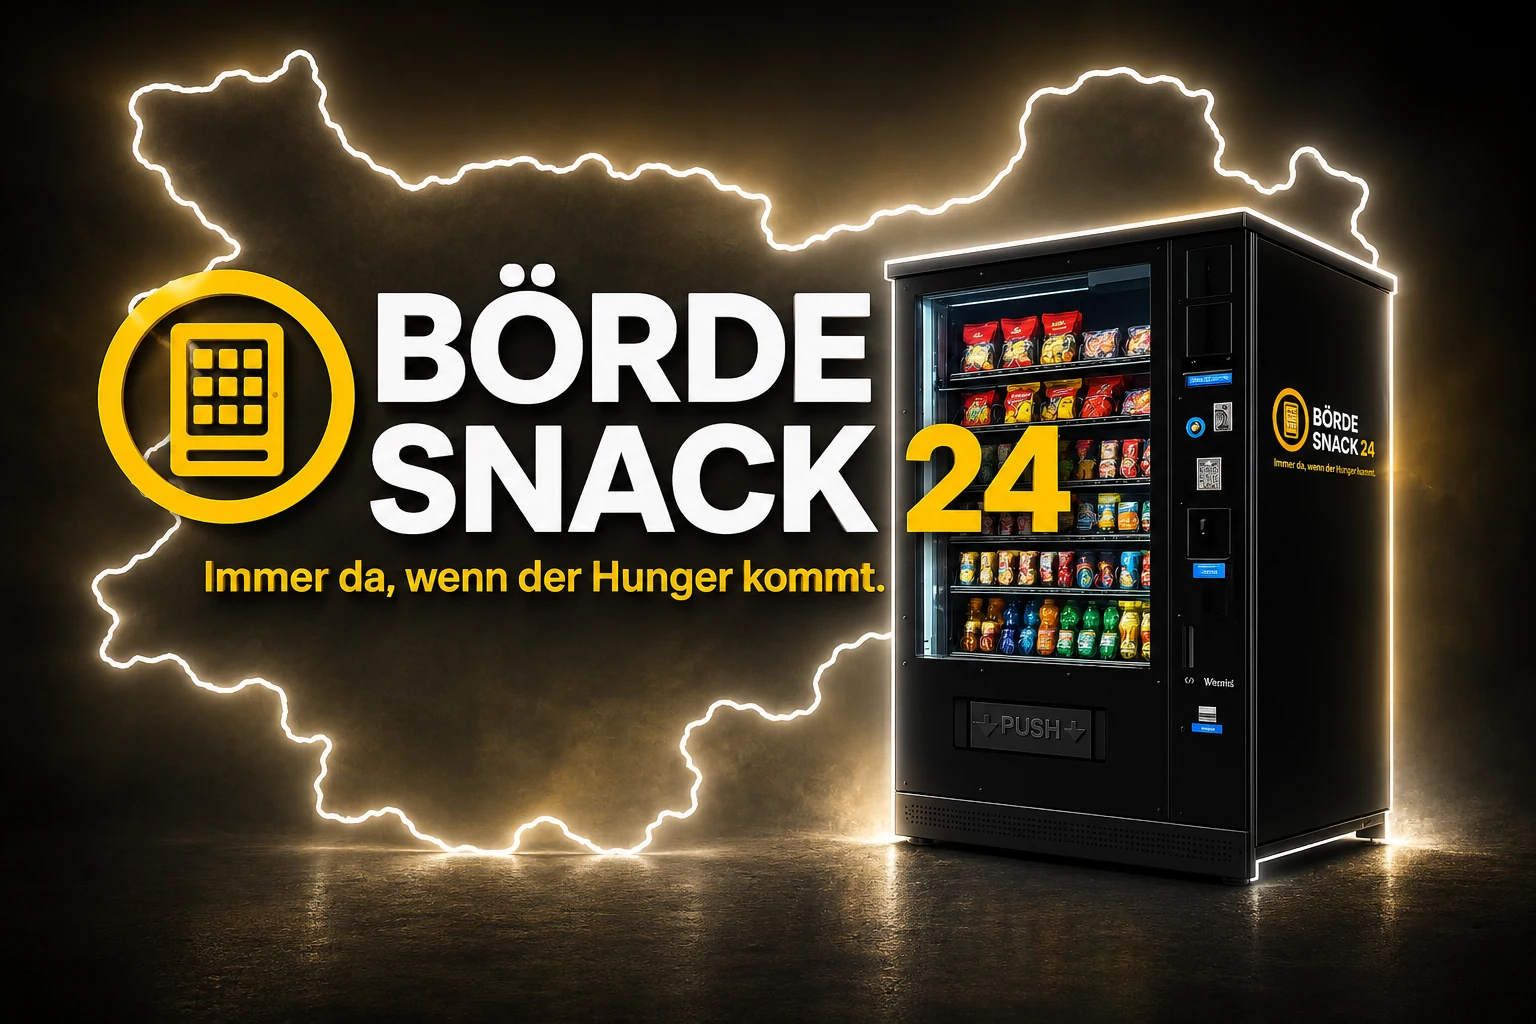
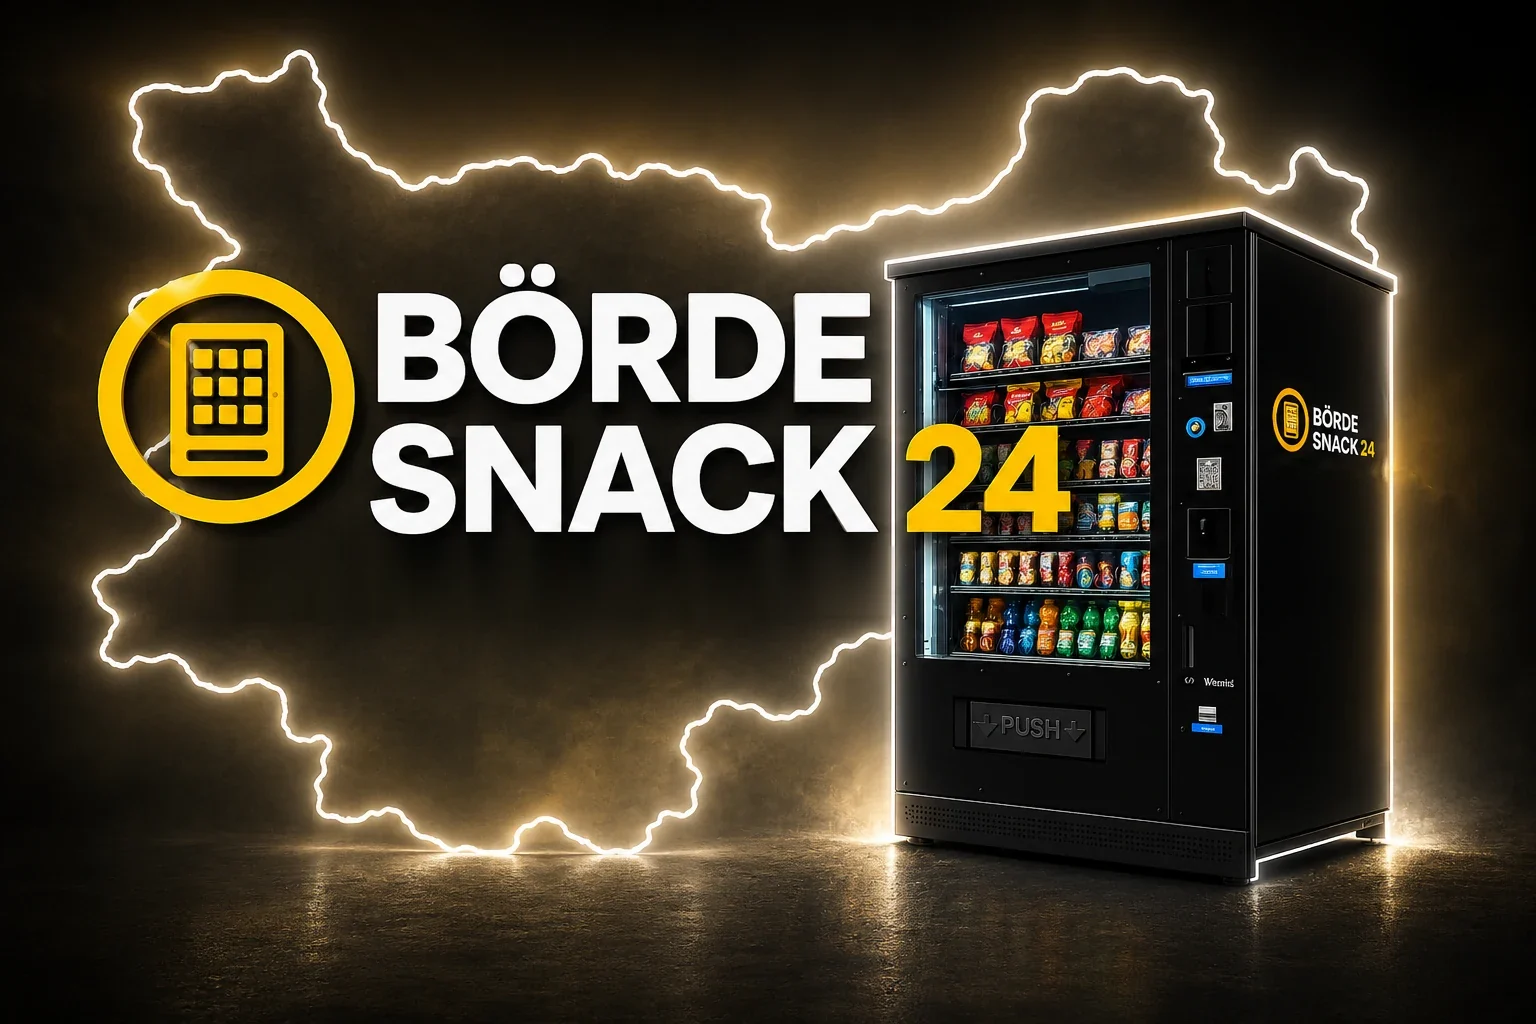
Alten Claim entfernt: Texte ersetzt, App-Bilder retuschiert
Entscheidung des Gesellschafters vom 27.09.2026.

- „Immer da, wenn der Hunger kommt." an allen fünf Fundstellen ersetzt
  durch den Claim der Landingpage „Versorgung vor Ort. Wert für den Ort.":
  Anmeldung, Kopf des internen Bereichs, Ladebildschirm, Briefvorlage
  (brief_docx.ts, wirkt nur auf künftig installierte Vorlagen), ruhender
  Store-Text.
- brand_hero_wide.webp und brand_hero.jpg: Schriftzug groß und klein
  herausretuschiert (Flächenfüllung aus dem Umfeld, kein neu erzeugtes
  Motiv). Golden hero_app_bar.png neu erzeugt und gesichtet.
- flutter analyze ohne Befund, flutter test 144/144; deno lint der
  Function ohne neuen Befund (4 bestehende, von der CI toleriert).
- COMPLIANCE V-015 und ADR 0008 nachgeführt; Landingpage-Kopfbild ist bei
  Lovable beauftragt.

Claude-Session: https://claude.ai/code/session_012uyiL6JjSwBHFW5epQoxkW

Changed region(s): [[0.125, 0.5312, 0.5938, 0.5938], [0.8438, 0.4375, 0.9062, 0.4688]]

diff --git a/apps/mobile/lib/features/home/presentation/home_shell.dart b/apps/mobile/lib/features/home/presentation/home_shell.dart
@@ -549,7 +549,7 @@ class _BrandAppBar extends ConsumerWidget implements PreferredSizeWidget {
                       children: [
                         // Slogan zweizeilig, ohne Punkt-Präfix.
                         Text(
-                          'immer da, wenn der',
+                          'Versorgung vor Ort.',
                           style: AppTypography.body(
                             size: 12,
                             weight: FontWeight.w700,
@@ -559,7 +559,7 @@ class _BrandAppBar extends ConsumerWidget implements PreferredSizeWidget {
                           overflow: TextOverflow.ellipsis,
                         ),
                         Text(
-                          'Hunger kommt',
+                          'Wert für den Ort.',
                           style: AppTypography.body(
                             size: 12,
                             weight: FontWeight.w700,

diff --git a/apps/mobile/lib/core/widgets/design_system/hero_backdrop.dart b/apps/mobile/lib/core/widgets/design_system/hero_backdrop.dart
@@ -9,8 +9,9 @@ import '../../theme/app_typography.dart';
 /// Bildschirmbreite und rendert das Motiv immer vollständig (BoxFit.contain).
 ///
 /// [showTaglineOverlay] blendet den Slogan noch einmal als eigene Text-Zeile
-/// unter dem Bild ein (nützlich für den Login, wo der Slogan „Immer da, wenn
-/// der Hunger kommt." ergänzend zum Bild erscheinen soll).
+/// unter dem Bild ein (nützlich für den Login, wo der Claim „Versorgung vor
+/// Ort. Wert für den Ort." ergänzend zum Bild erscheinen soll). Der frühere
+/// Claim ist seit dem 27.09.2026 auch aus dem Bild selbst retuschiert.
 class HeroBackdrop extends StatelessWidget {
   const HeroBackdrop({
     super.key,

diff --git a/apps/mobile/web/index.html b/apps/mobile/web/index.html
@@ -128,7 +128,7 @@
     <div class="logo"><img src="icons/Icon-192.png?v=__BUILD_V__" alt=""
          onerror="this.style.display='none'"></div>
     <div class="title">BÖRDESNACK24</div>
-    <div class="slogan">immer da, wenn der Hunger kommt</div>
+    <div class="slogan">Versorgung vor Ort. Wert für den Ort.</div>
     <div class="bar"><i id="bar"></i></div>
     <div class="hint" id="hint">App wird geladen …</div>
     <button id="retry" onclick="location.reload(true)">Neu laden</button>

diff --git a/apps/mobile/lib/features/auth/presentation/screens/sign_in_screen.dart b/apps/mobile/lib/features/auth/presentation/screens/sign_in_screen.dart
@@ -68,7 +68,7 @@ class _SignInScreenState extends ConsumerState<SignInScreen> {
                   crossAxisAlignment: CrossAxisAlignment.stretch,
                   children: [
                     const HeroBackdrop(
-                      tagline: 'Immer da, wenn der Hunger kommt.',
+                      tagline: 'Versorgung vor Ort. Wert für den Ort.',
                     ),
                     _FormPanel(
                       formKey: _formKey,

diff --git a/supabase/functions/documents-install-branded-set/brief_docx.ts b/supabase/functions/documents-install-branded-set/brief_docx.ts
@@ -156,7 +156,7 @@ function footerXml(): string {
 function documentXml(): string {
   const body = [
     heading("Bördesnack24 GbR"),
-    subtitle("Immer da, wenn der Hunger kommt."),
+    subtitle("Versorgung vor Ort. Wert für den Ort."),
     blank(),
     para("Bördesnack24 GbR · Sülldorfer Str. 3A · 39171 Sülzetal", {
       size: 16, color: MUTED_HEX,

diff --git a/docs/COMPLIANCE.md b/docs/COMPLIANCE.md
@@ -1176,9 +1176,15 @@ Rechtsberatung.
   144/144, Bildschirmfotos ohne Kontrastbefund.
 * [ ] **Auslieferung:** nach `main` erst mit Freigabe des Gesellschafters —
   Philipp — **30.09.2026**.
-* [ ] **Entscheidung:** alter Claim „Immer da, wenn der Hunger kommt." im
-  Kopfbild (`brand_hero_wide.webp`) und im Ladebildschirm (`web/index.html`) —
-  Philipp — **30.09.2026**.
+* [x] **Entscheidung:** alter Claim „Immer da, wenn der Hunger kommt." wird
+  entfernt (Gesellschafter, 27.09.2026). Ersetzt durch den Claim der
+  Landingpage „Versorgung vor Ort. Wert für den Ort." an allen fünf
+  Fundstellen im Code (Anmeldung, Kopf des internen Bereichs, Ladebildschirm,
+  Briefvorlage `brief_docx.ts`, ruhender Store-Text). Aus beiden App-Bildern
+  (`brand_hero_wide.webp`, `brand_hero.jpg`) herausretuschiert, ohne das Motiv
+  neu zu erzeugen.
+* [ ] **Landingpage-Kopfbild:** Retusche bei Lovable beauftragt am 27.09.2026 —
+  Claude — **28.09.2026**.
 
 ### Optimierungsvorschläge
 

diff --git a/docs/adr/0008-redesign-in-der-bestehenden-pwa.md b/docs/adr/0008-redesign-in-der-bestehenden-pwa.md
@@ -119,5 +119,9 @@ vorliegen, wird das Ergebnis dagegen abgeglichen.
 * **Nachweis:** Kontrasttest mit 54 Paaren, Bildschirmfotos mit
   Kontrastmessung jedes Textes (`tool/screens/screens_test.dart`, läuft
   nicht in der CI, weil es Bilder erzeugt), `flutter test` 144/144.
-* **Offen:** Auslieferung nach `main` (Freigabe), Kopfbild mit altem Claim,
-  echte Produktfotos (Muster 12 und 14).
+* **Claim:** „Immer da, wenn der Hunger kommt." ist entfernt (Entscheidung
+  vom 27.09.2026), in Texten ersetzt durch „Versorgung vor Ort. Wert für den
+  Ort.", aus den App-Bildern retuschiert.
+* **Offen:** Auslieferung nach `main` (Freigabe nach Sichtprüfung),
+  Landingpage-Kopfbild (Retusche bei Lovable), echte Produktfotos
+  (Muster 12 und 14).

diff --git a/docs/store-assets/store-listing.md b/docs/store-assets/store-listing.md
@@ -49,7 +49,7 @@ Stand: 16.09.2026 · Texte auf Deutsch (einzige Store-Sprache zum Start).
 
 ## Beschreibung (beide Stores)
 
-Bördesnack24 — immer da, wenn der Hunger kommt.
+Bördesnack24: Versorgung vor Ort. Wert für den Ort.
 
 Die App zu den Bördesnack24-Automaten in Sülzetal und Umgebung: Snacks,
 Getränke und Kaffeespezialitäten rund um die Uhr — mit der App wird jeder
